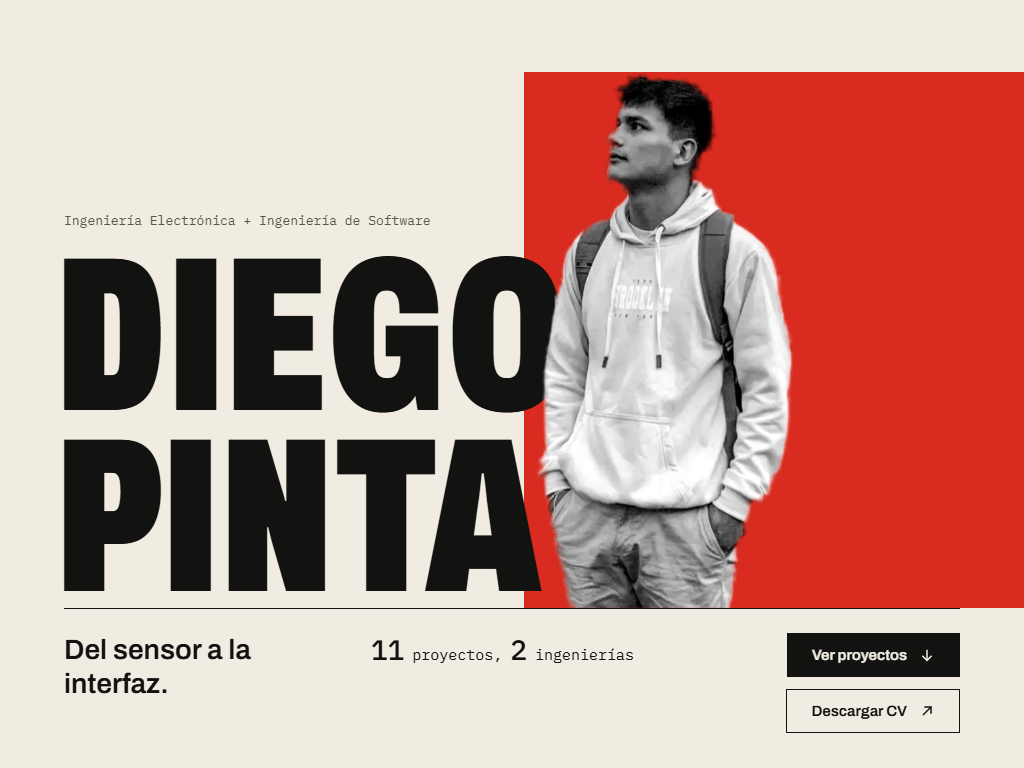
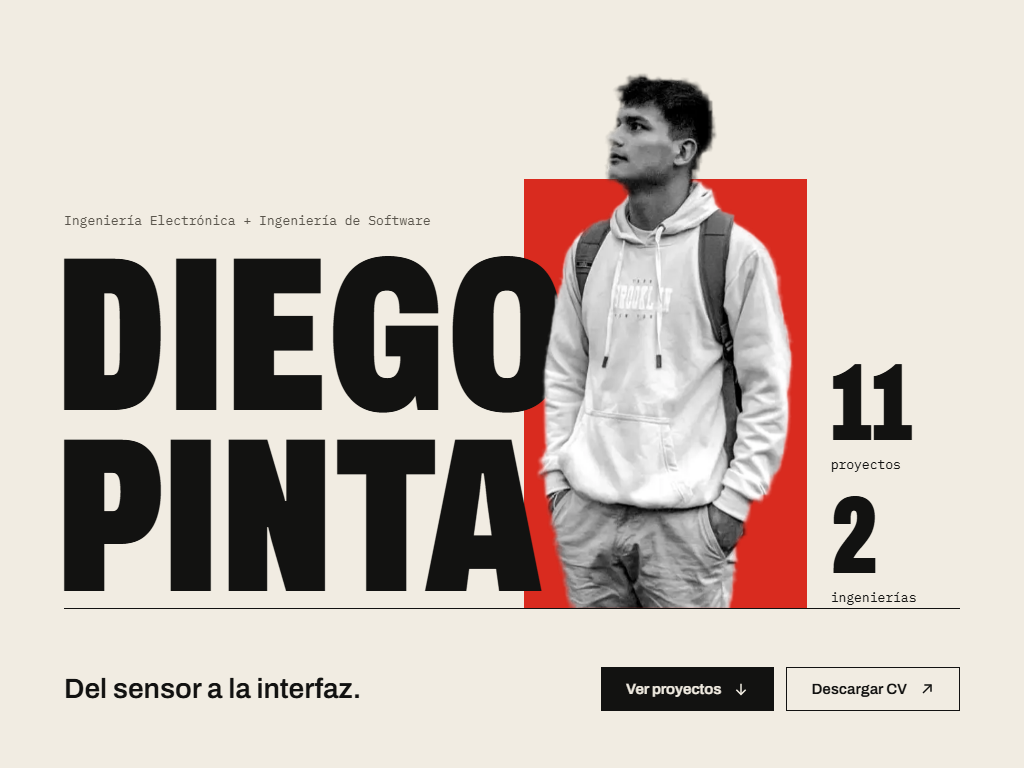
feat(portada): bloque que enmarca la figura, cifra en titular y retrato configurable
- Enmiendas 4 a 7: bloque rojo sin sangre en escritorio, cifra de proyectos e ingenierías en titular condensado en la columna derecha
- En tablet y celular la cifra va junto al retrato y los botones caben en un renglón
- Proporción y tope de alto del retrato salen de data/portfolio.ts (tope = alto / 1.5)
- README: cómo cambiar la foto
- Capturas y comparativa regeneradas

Changed region(s): [[0.5, 0.0938, 1.0, 0.9375], [0.0625, 0.8125, 0.3438, 0.9062], [0.375, 0.8438, 0.4688, 0.875]]

diff --git a/app/globals.css b/app/globals.css
@@ -182,7 +182,8 @@
 .portada-medida > * {
   --nav-alto: 72px;
   --rotulo-alto: calc(var(--t-13) * 1.45 + var(--e-16));
-  --franja-alto: 192px;
+  /* Alto de la franja inferior en celular: frase, un renglón de botones y relleno. */
+  --franja-alto: 136px;
   --escena-min: var(--e-168);
   --fs-ancho: calc((100cqi - 2 * var(--ret-margen)) / var(--titular-k));
   --fs-alto: calc(
@@ -191,6 +192,8 @@
   --fs-portada: max(var(--titular-min), min(var(--fs-ancho), var(--fs-alto)));
   /* Cuánto sube el retrato sobre la base de PINTA en tablet y celular: media línea. */
   --solape: calc(var(--fs-portada) * 0.41);
+  /* Cifra en titular (enmienda 5). Menor que el nombre para que este se lea primero. */
+  --fs-cifra: max(var(--titular-min), calc(var(--fs-portada) * 0.4));
 }
 @media (min-width: 768px) {
   .portada-medida > * {
@@ -200,6 +203,7 @@
 @media (min-width: 1024px) {
   .portada-medida > * {
     --escena-min: 0px;
+    --fs-cifra: max(var(--titular-min), calc(var(--fs-portada) * 0.5));
     /* 7 columnas más 6 canales de una retícula de 12 */
     --fs-ancho: calc(
       ((min(100cqi, var(--ret-max)) - 2 * var(--ret-margen) - 11 * var(--ret-canal)) * 7 / 12 + 6 * var(--ret-canal)) /
@@ -213,7 +217,8 @@
   margin-left: -0.04em;
 }
 
-/* Portada (paso 2). Capas: bloque rojo 0, nombre 1, retrato 2. */
+/* Portada (paso 2, ajustada con las enmiendas 4 a 7). Capas: bloque rojo 0, nombre y cifra 1, retrato 2.
+   Las proporciones y el tope de alto del retrato llegan como variables desde data/portfolio.ts (retrato). */
 .portada {
   position: relative;
   min-height: 100svh;
@@ -235,29 +240,50 @@
   z-index: 0;
   /* Las líneas van explícitas: en un elemento absoluto, «auto» es el borde del contenedor. */
   grid-row: 3 / 4;
-  grid-column: 2 / -1;
+  grid-column: 3 / -1;
   top: 0;
   bottom: 0;
   left: 0;
-  /* A sangre por la derecha, hasta el borde de la ventana. */
+  /* En celular y tablet va a sangre por la derecha. */
   right: calc(-1 * (var(--ret-margen) + max(0px, (100cqi - var(--ret-max)) / 2)));
   background: var(--rojo);
 }
 .portada-retrato {
   position: absolute;
   z-index: 2;
-  /* Las líneas van explícitas: en un elemento absoluto, «auto» es el borde del contenedor. */
   grid-row: 3 / 4;
-  grid-column: 2 / -1;
+  grid-column: 3 / -1;
   bottom: 0;
   left: 0;
   right: 0;
   margin-inline: auto;
-  height: min(560px, calc(100% + var(--solape)));
-  aspect-ratio: 409 / 843;
+  height: min(var(--retrato-tope), calc(100% + var(--solape)));
+  aspect-ratio: var(--retrato-proporcion);
+  max-width: 100%;
 }
 .portada-retrato[data-error] {
   display: none;
+}
+.portada-cifra {
+  grid-row: 3;
+  grid-column: 1 / 3;
+  align-self: end;
+  position: relative;
+  z-index: 1;
+  display: flex;
+  flex-direction: column;
+  gap: var(--e-16);
+  padding-bottom: var(--e-24);
+}
+.portada-cifra-numero {
+  display: block;
+  font-size: var(--fs-cifra);
+}
+.portada-cifra-rotulo {
+  display: block;
+  font-size: var(--t-13);
+  line-height: 1.45;
+  margin-top: var(--e-8);
 }
 .portada-franja {
   grid-row: 4;
@@ -265,14 +291,13 @@
   display: grid;
   grid-template-columns: subgrid;
   row-gap: var(--e-16);
-  align-items: start;
+  align-items: center;
   border-top: var(--filete) solid var(--tinta);
   padding-block: var(--e-24);
   position: relative;
   z-index: 1;
 }
 .portada-frase,
-.portada-cifra,
 .portada-acciones {
   grid-column: 1 / -1;
 }
@@ -281,19 +306,28 @@
   flex-wrap: wrap;
   gap: var(--e-12);
 }
+@media (max-width: 767px) {
+  /* Los dos botones caben en un renglón con 16 px de relleno lateral. */
+  .portada-acciones .boton-ed {
+    padding-inline: var(--e-16);
+  }
+}
 
 @media (min-width: 768px) {
-  .portada-bloque {
-    grid-column: 4 / -1;
-  }
+  .portada-bloque,
   .portada-retrato {
     grid-column: 4 / -1;
   }
-  .portada-frase {
-    grid-column: 1 / 5;
-  }
   .portada-cifra {
-    grid-column: 5 / -1;
+    grid-column: 1 / 4;
+  }
+  .portada-frase {
+    grid-column: 1 / 4;
+  }
+  /* Cinco columnas: los dos botones caben en un renglón. */
+  .portada-acciones {
+    grid-column: 4 / -1;
+    justify-content: flex-end;
   }
 }
 
@@ -305,35 +339,46 @@
     grid-column: 1 / 8;
     align-self: end;
   }
+  /* Enmienda 4. Sin sangre: el bloque enmarca la figura del pecho abajo y deja la cabeza fuera. */
   .portada-bloque {
     grid-row: 2 / 3;
-    grid-column: 7 / -1;
+    grid-column: 7 / 11;
+    top: auto;
+    right: 0;
+    height: calc(min(var(--retrato-tope), 100%) * 0.8);
   }
   .portada-retrato {
     grid-row: 2 / 3;
     /* Entre 1024 y 1279 el nombre es más estrecho. Una columna más a la derecha deja la O legible. */
     grid-column: 7 / 11;
-    height: min(560px, 100%);
+    height: min(var(--retrato-tope), 100%);
+  }
+  /* Enmienda 5. La cifra en la columna que libera el bloque. */
+  .portada-cifra {
+    grid-row: 2;
+    grid-column: 11 / -1;
+    padding-bottom: 0;
   }
   .portada-franja {
     grid-row: 3;
     min-height: 160px;
   }
   .portada-frase {
-    grid-column: 1 / 5;
-  }
-  .portada-cifra {
-    grid-column: 5 / 9;
+    grid-column: 1 / 7;
   }
   .portada-acciones {
-    grid-column: 9 / -1;
-    justify-content: flex-end;
+    grid-column: 7 / -1;
   }
 }
-
 @media (min-width: 1280px) {
+  .portada-bloque {
+    grid-column: 7 / 10;
+  }
   .portada-retrato {
     grid-column: 6 / 10;
+  }
+  .portada-cifra {
+    grid-column: 10 / -1;
   }
 }
 

diff --git a/components/editorial/portada.tsx b/components/editorial/portada.tsx
@@ -1,6 +1,8 @@
 import { FlechaAbajo, FlechaDiagonal } from "@/components/editorial/iconos";
 import { RetratoPortada } from "@/components/editorial/retrato-portada";
-import { getPortfolio, type Locale } from "@/data/portfolio";
+import type { CSSProperties } from "react";
+
+import { getPortfolio, retrato, retratoTope, type Locale } from "@/data/portfolio";
 
 /**
  * Portada del rediseño editorial (contrato 8.1, 8.5, 8.6 y 8.7 punto 2).
@@ -12,10 +14,15 @@ export function Portada({ locale, projectsHref = "#proyectos" }: { locale: Local
   const proyectos = projects.length;
   // Programas de ingeniería en la formación: «Ingeniería …» en español, «… Engineering …» en inglés.
   const ingenierias = education.filter((e) => /ingenier|engineering/i.test(e.title)).length;
+  const anchoTope = Math.round((retratoTope * retrato.ancho) / retrato.alto);
+  const variables = {
+    "--retrato-proporcion": `${retrato.ancho} / ${retrato.alto}`,
+    "--retrato-tope": `${retratoTope}px`,
+  } as CSSProperties;
 
   return (
     <section className="portada-medida sup-papel voz-texto overflow-hidden">
-      <div className="portada reticula">
+      <div className="portada reticula" style={variables}>
         {/* Fila 1: 72 px reservados para la navegación del paso 3. */}
 
         <div className="portada-cabeza">
@@ -32,16 +39,25 @@ export function Portada({ locale, projectsHref = "#proyectos" }: { locale: Local
         </div>
 
         <div aria-hidden="true" className="portada-bloque" />
-        <RetratoPortada alt={t.portada.portrait} />
+        <RetratoPortada
+          alt={t.portada.portrait}
+          src={retrato.src}
+          sizes={`(min-width: 1024px) ${anchoTope}px, 50vw`}
+        />
+
+        <p className="portada-cifra">
+          <span>
+            <span className="portada-cifra-numero voz-titular">{proyectos}</span>{" "}
+            <span className="portada-cifra-rotulo voz-dato">{t.portada.projects}</span>
+          </span>{" "}
+          <span>
+            <span className="portada-cifra-numero voz-titular">{ingenierias}</span>{" "}
+            <span className="portada-cifra-rotulo voz-dato">{t.portada.degrees}</span>
+          </span>
+        </p>
 
         <div className="portada-franja">
           <p className="portada-frase voz-texto-fuerte text-21 lg:text-28">{identity.tagline}</p>
-          <p className="portada-cifra voz-dato flex flex-wrap items-baseline gap-x-e8">
-            <span className="voz-dato-fuerte text-28">{proyectos}</span>{" "}
-            <span className="text-15">{t.portada.projects},</span>{" "}
-            <span className="voz-dato-fuerte text-28">{ingenierias}</span>{" "}
-            <span className="text-15">{t.portada.degrees}</span>
-          </p>
           <div className="portada-acciones">
             <a href={projectsHref} className="boton-ed boton-ed-primario">
               {t.portada.viewProjects}

diff --git a/components/editorial/retrato-portada.tsx b/components/editorial/retrato-portada.tsx
@@ -7,7 +7,7 @@ import { useEffect, useRef, useState } from "react";
  * Retrato de la portada. Si la foto no carga, el contenedor se oculta y queda el bloque rojo solo (contrato 8.9).
  * El error puede ocurrir antes de hidratar, por eso también se revisa la imagen al montar.
  */
-export function RetratoPortada({ alt }: { alt: string }) {
+export function RetratoPortada({ alt, src, sizes }: { alt: string; src: string; sizes: string }) {
   const ref = useRef<HTMLImageElement>(null);
   const [error, setError] = useState(false);
 
@@ -20,11 +20,11 @@ export function RetratoPortada({ alt }: { alt: string }) {
     <div className="portada-retrato" data-error={error ? "" : undefined}>
       <Image
         ref={ref}
-        src="/retrato/retrato-diego.webp"
+        src={src}
         alt={alt}
         fill
         priority
-        sizes="(min-width: 1024px) 272px, 200px"
+        sizes={sizes}
         className="object-contain object-bottom"
         onError={() => setError(true)}
       />

diff --git a/data/portfolio.ts b/data/portfolio.ts
@@ -8,6 +8,20 @@ export const GITHUB_PROFILE = "https://github.com/diarpicu2022-commits";
 export const EMAIL = "diarpicu2022@gmail.com";
 export const NAME = "Diego Armando Pinta Cuasquen";
 
+/**
+ * Retrato de la portada. Para cambiar la foto se reemplaza el archivo y se actualizan ancho y alto
+ * con las medidas en píxeles del archivo nuevo. El layout se adapta solo (ver README).
+ */
+export const retrato = {
+  src: "/retrato/retrato-diego.webp",
+  ancho: 409,
+  alto: 843,
+  /** Densidad mínima de píxeles que se acepta en pantalla. Con 1.5 el tope de alto es alto / 1.5. */
+  densidadMinima: 1.5,
+};
+/** Alto máximo en px CSS al que se pinta el retrato sin perder nitidez. */
+export const retratoTope = Math.floor(retrato.alto / retrato.densidadMinima);
+
 export const homePath: Record<Locale, string> = { es: "/", en: "/en" };
 export const cvPath: Record<Locale, string> = {
   es: "/cv-diego-armando-pinta-cuasquen.pdf",

diff --git a/README.md b/README.md
@@ -41,6 +41,15 @@ Tras cambiar los datos, regenera los dos CV (español e inglés):
 npm run cv
 ```
 
+## Cambiar la foto de la portada
+
+La portada lee el retrato de `retrato` en `data/portfolio.ts`. Para cambiar la foto:
+
+1. Copia el archivo nuevo en `public/retrato/`. Mejor en WebP, recortado y con fondo transparente.
+2. En `data/portfolio.ts` cambia `src` por la ruta nueva y pon en `ancho` y `alto` las medidas reales del archivo en píxeles.
+3. No hace falta tocar el CSS. La proporción y el tope de alto salen de esos datos. El tope es `alto / densidadMinima` (1.5), así la foto nunca se pinta más grande de lo que su resolución permite.
+4. Revisa `/sistema/portada` en 390, 768, 1024 y 1440 px.
+
 ## Pruebas
 
 ```bash
